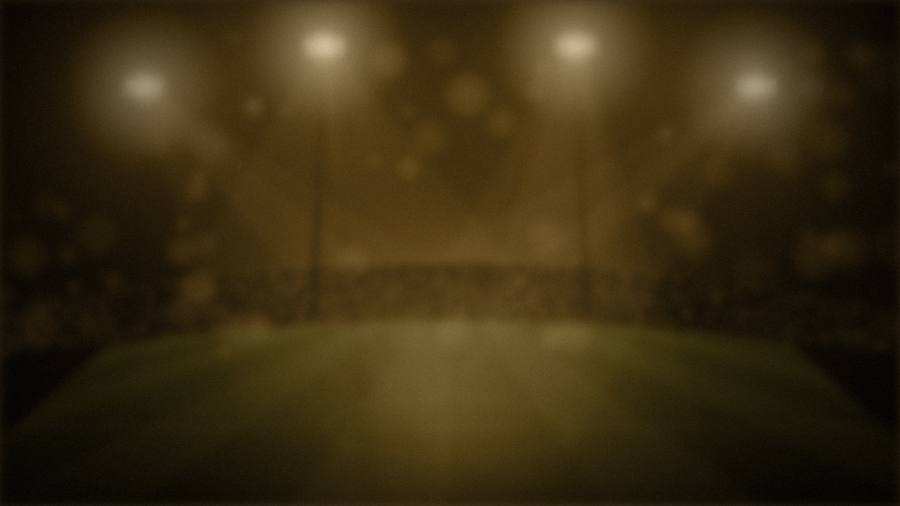
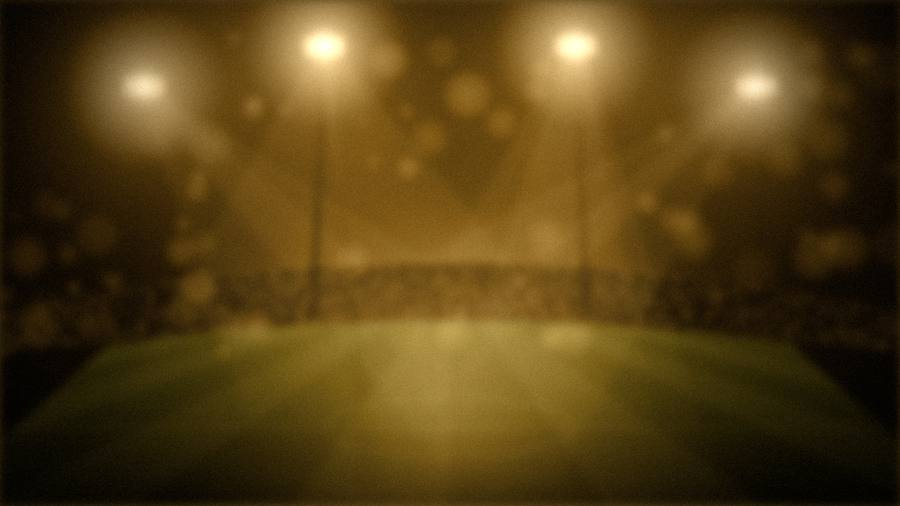
Vcerajsi tip a stadion

diff --git a/landing/index.html b/landing/index.html
@@ -938,30 +938,6 @@
   .rv.in { opacity: 1; transform: none; transition: opacity .9s cubic-bezier(.2,.7,.2,1), transform .9s cubic-bezier(.2,.7,.2,1); transition-delay: var(--rv-d, 0s); }
   @media (prefers-reduced-motion: reduce) { .rv { opacity: 1; transform: none; } }
 
-  /* 2) výsledky priamo v úvode */
-  .proof { display: grid; grid-template-columns: repeat(3, auto); justify-content: start; gap: 0; margin-top: 44px; padding-top: 26px; border-top: 1px solid var(--rule-gold); text-decoration: none; }
-  .proof[hidden] { display: none; }
-  .proof > div { padding-right: 36px; margin-right: 36px; border-right: 1px solid var(--rule); }
-  .proof > div:last-of-type { padding-right: 0; margin-right: 0; border-right: 0; }
-  .proof b { display: block; font: 400 clamp(34px, 3.4vw, 44px)/1 var(--serif); letter-spacing: -0.02em; color: var(--gold-hi); }
-  .proof b.pos { color: var(--win); } .proof b.neg { color: var(--loss); }
-  .proof span { display: block; margin-top: 10px; font-size: 10.5px; font-weight: 600; letter-spacing: .22em; text-transform: uppercase; color: var(--faint); }
-  .proof-note { display: inline-flex; align-items: center; gap: 8px; margin-top: 16px; font-size: 13px; color: var(--muted); text-decoration: none; border-bottom: 1px solid var(--rule-gold); padding-bottom: 2px; }
-  .proof-note:hover { color: var(--gold-hi); border-color: var(--gold); }
-  .proof-note[hidden] { display: none; }
-  /* na počítači menej vzduchu nad nadpisom, aby boli čísla vidieť hneď po otvorení */
-  @media (min-width: 961px) {
-    .hero { padding-top: 76px; }
-    .hero h1 { font-size: clamp(50px, 6.2vw, 84px); }
-    .proof { margin-top: 34px; padding-top: 22px; }
-  }
-  @media (max-width: 640px) {
-    .proof { grid-template-columns: repeat(3, minmax(0, 1fr)); margin-top: 36px; padding-top: 22px; }
-    .proof > div { padding-right: 12px; margin-right: 12px; }
-    .proof b { font-size: 30px; }
-    .proof span { font-size: 9.5px; letter-spacing: .16em; }
-  }
-
   /* 4) podpis zakladateľa namiesto iniciál */
   .sign::before { content: none; }
   .sign span.sig { text-transform: none; margin-top: 0; }
@@ -991,13 +967,13 @@
      Fotka štadióna v úvode a svetlá sekcia „Kto za tým je“ (14. 10. 2026)
      ================================================================ */
   .hero { background:
-      linear-gradient(90deg, rgba(12,11,10,.94) 0%, rgba(12,11,10,.78) 34%, rgba(12,11,10,.28) 68%, rgba(12,11,10,.18) 100%),
-      linear-gradient(180deg, rgba(12,11,10,.35) 0%, rgba(12,11,10,0) 25%, rgba(12,11,10,.15) 72%, #0C0B0A 100%),
+      linear-gradient(90deg, rgba(12,11,10,.82) 0%, rgba(12,11,10,.5) 30%, rgba(12,11,10,0) 60%),
+      linear-gradient(180deg, rgba(12,11,10,0) 0%, rgba(12,11,10,0) 70%, #0C0B0A 100%),
       url("/obrazky/stadion.jpg") center 35% / cover no-repeat #0C0B0A; }
   @media (max-width: 960px) {
     .hero { background:
-      linear-gradient(180deg, rgba(12,11,10,.42) 0%, rgba(12,11,10,.72) 30%, rgba(12,11,10,.9) 55%, #0C0B0A 80%),
-      url("/obrazky/stadion-mobil.jpg") center top / auto 62% no-repeat #0C0B0A; }
+      linear-gradient(180deg, rgba(12,11,10,.1) 0%, rgba(12,11,10,.38) 30%, rgba(12,11,10,.72) 58%, #0C0B0A 85%),
+      url("/obrazky/stadion-mobil.jpg") center top / auto 70% no-repeat #0C0B0A; }
   }
 
   #kto { background: linear-gradient(180deg, #F6F1E6, #EFE7D7); color: #1D1A17; }
@@ -1012,6 +988,42 @@
   #kto .sign .sig { background: linear-gradient(100deg, #7A5A22 0%, #B8995E 45%, #8E6B2E 75%, #6E5020 100%); -webkit-background-clip: text; background-clip: text; color: transparent; }
   #kto .sign .sig-line { background: linear-gradient(90deg, transparent, #9C8250, transparent); }
   #kto :focus-visible { outline-color: #7E6328; }
+
+  /* Včerajší (posledný vyhodnotený) tip pod úvodom */
+  .yday { padding: 0 0 8px; margin-top: -40px; position: relative; z-index: 2; }
+  .yday[hidden] { display: none; }
+  .yday-card { display: grid; grid-template-columns: auto minmax(0,1fr) auto; align-items: center; gap: 36px; padding: 26px 32px; background: linear-gradient(135deg, #1D1A17, #141210); border: 1px solid rgba(217,192,138,.35); outline: 1px solid rgba(217,192,138,.12); outline-offset: -7px; box-shadow: 0 40px 80px -50px rgba(0,0,0,.9); }
+  .yday-date { text-align: center; padding-right: 34px; border-right: 1px solid var(--rule); }
+  .yday-date small { display: block; font-size: 10.5px; font-weight: 600; letter-spacing: .24em; text-transform: uppercase; color: var(--gold); }
+  .yday-date b { display: block; margin-top: 6px; font: 400 40px/1 var(--serif); color: var(--gold-hi); }
+  .yday-date span { display: block; margin-top: 4px; font-size: 11px; letter-spacing: .18em; text-transform: uppercase; color: var(--faint); }
+  .yday-main { min-width: 0; }
+  .yday-main .lg { font-size: 11px; letter-spacing: .2em; text-transform: uppercase; color: var(--faint); }
+  .yday-main .lg:empty { display: none; }
+  .yday-main h3 { margin-top: 6px; font: 400 28px/1.2 var(--serif); color: var(--text); }
+  .yday-main h3 em { font-style: italic; color: var(--gold-hi); margin-left: 10px; font-size: 22px; }
+  .yday-main h3 em:empty { display: none; }
+  .yday-main p { margin-top: 6px; color: var(--muted); font-size: 15.5px; overflow-wrap: anywhere; }
+  .yday-main p b { color: var(--text); font-weight: 600; }
+  .yday-main .meta { display: flex; flex-wrap: wrap; gap: 6px 22px; margin-top: 12px; font-size: 13px; color: var(--faint); }
+  .yday-main .meta b { color: var(--gold-hi); font-weight: 600; margin-left: 4px; }
+  .yday-res { text-align: center; }
+  .yday-badge { display: inline-flex; align-items: center; gap: 10px; padding: 12px 20px; border: 1px solid rgba(127,191,154,.5); background: rgba(127,191,154,.08); color: var(--win); font-size: 12px; font-weight: 700; letter-spacing: .22em; text-transform: uppercase; white-space: nowrap; }
+  .yday-badge.lost { border-color: rgba(192,112,124,.5); background: rgba(192,112,124,.08); color: var(--loss); }
+  .yday-badge.void { border-color: var(--rule-gold); background: transparent; color: var(--muted); }
+  .yday-res a { display: block; margin-top: 12px; font-size: 13px; color: var(--muted); text-decoration: none; }
+  .yday-res a:hover { color: var(--gold-hi); }
+  @media (max-width: 760px) {
+    .yday { margin-top: -24px; }
+    .yday-card { grid-template-columns: minmax(0,1fr); gap: 18px; padding: 22px 20px; text-align: center; }
+    .yday-date { padding: 0 0 16px; border-right: 0; border-bottom: 1px solid var(--rule); }
+    .yday-main .meta { justify-content: center; }
+    .yday-main h3 em { display: block; margin: 4px 0 0; }
+  }
+
+  /* bez radaru v úvode, štadión výraznejší */
+  .hero::before { content: none; }
+  .hero .radar { display: none; }
 </style>
 </head>
 <body>
@@ -1082,7 +1094,6 @@
     </div>
   </header>
   <section class="hero" data-pages="home">
-    <div class="radar" aria-hidden="true"><svg viewBox="0 0 860 860" aria-hidden="true"><circle cx="430" cy="430" r="110" fill="none" stroke="#D9C08A" stroke-opacity="0.22" stroke-width="1"/><circle cx="430" cy="430" r="210" fill="none" stroke="#D9C08A" stroke-opacity="0.2" stroke-width="1"/><circle cx="430" cy="430" r="310" fill="none" stroke="#D9C08A" stroke-opacity="0.17" stroke-width="1"/><circle cx="430" cy="430" r="410" fill="none" stroke="#D9C08A" stroke-opacity="0.22" stroke-width="1"/><path d="M430 20V840M20 430H840" stroke="#D9C08A" stroke-opacity=".10" stroke-width="1"/><path d="M140 140L720 720M720 140L140 720" stroke="#D9C08A" stroke-opacity=".05" stroke-width="1"/><path d="M430.0 20.0L430.0 34.0M465.7 21.6L465.2 27.5M501.2 26.2L500.2 32.1M536.1 34.0L534.6 39.8M570.2 44.7L568.2 50.4M603.3 58.4L600.7 63.9M635.0 74.9L628.0 87.1M665.2 94.1L661.7 99.1M693.5 115.9L689.7 120.5M719.9 140.1L715.7 144.3M744.1 166.5L739.5 170.3M765.9 194.8L760.9 198.3M785.1 225.0L772.9 232.0M801.6 256.7L796.1 259.3M815.3 289.8L809.6 291.8M826.0 323.9L820.2 325.4M833.8 358.8L827.9 359.8M838.4 394.3L832.5 394.8M840.0 430.0L826.0 430.0M838.4 465.7L832.5 465.2M833.8 501.2L827.9 500.2M826.0 536.1L820.2 534.6M815.3 570.2L809.6 568.2M801.6 603.3L796.1 600.7M785.1 635.0L772.9 628.0M765.9 665.2L760.9 661.7M744.1 693.5L739.5 689.7M719.9 719.9L715.7 715.7M693.5 744.1L689.7 739.5M665.2 765.9L661.7 760.9M635.0 785.1L628.0 772.9M603.3 801.6L600.7 796.1M570.2 815.3L568.2 809.6M536.1 826.0L534.6 820.2M501.2 833.8L500.2 827.9M465.7 838.4L465.2 832.5M430.0 840.0L430.0 826.0M394.3 838.4L394.8 832.5M358.8 833.8L359.8 827.9M323.9 826.0L325.4 820.2M289.8 815.3L291.8 809.6M256.7 801.6L259.3 796.1M225.0 785.1L232.0 772.9M194.8 765.9L198.3 760.9M166.5 744.1L170.3 739.5M140.1 719.9L144.3 715.7M115.9 693.5L120.5 689.7M94.1 665.2L99.1 661.7M74.9 635.0L87.1 628.0M58.4 603.3L63.9 600.7M44.7 570.2L50.4 568.2M34.0 536.1L39.8 534.6M26.2 501.2L32.1 500.2M21.6 465.7L27.5 465.2M20.0 430.0L34.0 430.0M21.6 394.3L27.5 394.8M26.2 358.8L32.1 359.8M34.0 323.9L39.8 325.4M44.7 289.8L50.4 291.8M58.4 256.7L63.9 259.3M74.9 225.0L87.1 232.0M94.1 194.8L99.1 198.3M115.9 166.5L120.5 170.3M140.1 140.1L144.3 144.3M166.5 115.9L170.3 120.5M194.8 94.1L198.3 99.1M225.0 74.9L232.0 87.1M256.7 58.4L259.3 63.9M289.8 44.7L291.8 50.4M323.9 34.0L325.4 39.8M358.8 26.2L359.8 32.1M394.3 21.6L394.8 27.5" stroke="#D9C08A" stroke-opacity=".28" stroke-width="1"/></svg><div class="sweep"></div><i class="blip" style="left:78.52%;top:24.32%;animation-delay:1.20s"></i><i class="blip" style="left:69.41%;top:57.84%;animation-delay:2.80s"></i><i class="blip" style="left:61.14%;top:91.56%;animation-delay:4.12s"></i><i class="blip" style="left:26.18%;top:68.61%;animation-delay:5.80s"></i><i class="blip" style="left:10.73%;top:27.33%;animation-delay:7.50s"></i><i class="blip" style="left:55.97%;top:33.61%;animation-delay:0.50s"></i></div>
     <div class="wrap">
       <div>
         <div class="eyebrow">Futbalové tipy podložené štatistickým modelom</div>
@@ -1092,12 +1103,6 @@
           <a class="btn" href="#clenstvo">Zapísať sa do poradovníka</a>
           <a class="btn btn-ghost" href="#vysledky">Pozrieť výsledky</a>
         </div>
-        <div class="proof" id="heroProof" hidden>
-          <div><b class="num" id="hpCount">–</b><span id="hpCountLbl">vyhodnotených tipov</span></div>
-          <div><b class="num" id="hpRate">–</b><span>vyšlo</span></div>
-          <div id="hpRoiBox"><b class="num" id="hpRoi">–</b><span>ROI</span></div>
-        </div>
-        <a class="proof-note" id="heroProofNote" href="#vysledky" hidden>Výhry aj prehry, každý tip od začiatku <span aria-hidden="true">→</span></a>
       </div>
 
       <figure class="duel" id="duel" aria-label="Ilustrácia: model porovnáva svoju pravdepodobnosť s kurzom stávkovej kancelárie">
@@ -1119,6 +1124,20 @@
     </div>
   </section>
 
+  <section class="yday" id="yday" data-pages="home" aria-label="Posledný vyhodnotený tip" hidden>
+    <div class="wrap">
+      <div class="yday-card">
+        <div class="yday-date"><small id="ydLbl">Včerajší tip</small><b class="num" id="ydDay"></b><span id="ydMonth"></span></div>
+        <div class="yday-main">
+          <div class="lg" id="ydLeague"></div>
+          <h3><span id="ydMatch"></span><em class="num" id="ydScore"></em></h3>
+          <p id="ydBet"></p>
+          <div class="meta" id="ydMeta"></div>
+        </div>
+        <div class="yday-res"><span class="yday-badge" id="ydBadge"></span><a href="#vysledky">Všetky výsledky →</a></div>
+      </div>
+    </div>
+  </section>
   <section class="sec" id="ako" data-pages="home">
     <div class="wrap split how">
       <div>
@@ -1748,18 +1767,34 @@
       }
       recentAll = d.recent || [];
       drawList(); drawChart(d.timeline); drawSlips(d.slips || []);
+      // Včerajší (posledný vyhodnotený) tip pod úvodom – výhra aj prehra
+      const L = d.latest, yd = document.getElementById("yday");
+      if (yd && L && L.day && (L.status === "won" || L.status === "lost" || L.status === "void")) {
+        const [ly, lm, ldd] = String(L.day).split("-").map(Number);
+        const pad = (x) => String(x).padStart(2, "0");
+        const now = new Date(), yest = new Date(now.getTime() - 864e5);
+        const key = (t) => `${t.getFullYear()}-${pad(t.getMonth() + 1)}-${pad(t.getDate())}`;
+        $("ydLbl").textContent = L.day === key(yest) ? "Včerajší tip" : L.day === key(now) ? "Dnešný tip" : "Posledný tip";
+        $("ydDay").textContent = ldd + ".";
+        $("ydMonth").textContent = MONTHS[lm - 1] || "";
+        $("ydLeague").textContent = [L.league, L.strong ? "★ Silný tip dňa" : ""].filter(Boolean).join(" · ");
+        $("ydMatch").textContent = L.match || "";
+        $("ydScore").textContent = L.score || "";
+        const bi = String(L.bet || "").indexOf(": ");
+        $("ydBet").innerHTML = bi > 0 ? `${esc(L.bet.slice(0, bi))}: <b>${esc(L.bet.slice(bi + 2))}</b>` : `<b>${esc(L.bet || "")}</b>`;
+        const meta = [];
+        if (L.odds) meta.push(`<span>Kurz<b class="num">${String(Number(L.odds).toFixed(2)).replace(".", ",")}</b></span>`);
+        if (L.probability) meta.push(`<span>Dôvera<b class="num">${L.probability}&nbsp;%</b></span>`);
+        if (L.dayTotal > 1) meta.push(`<span>V ten deň<b class="num">${L.dayWon} z ${L.dayTotal}</b></span>`);
+        $("ydMeta").innerHTML = meta.join("");
+        const b = $("ydBadge");
+        b.className = "yday-badge" + (L.status === "lost" ? " lost" : L.status === "void" ? " void" : "");
+        b.textContent = L.status === "won" ? "✓ Vyšlo" : L.status === "lost" ? "✗ Nevyšlo" : "↺ Vrátené";
+        yd.hidden = false;
+      }
       if (!d.totalResolved) { $("month").textContent = "Čísla sa zobrazia po prvých vyhodnotených tipoch."; return; }
       const n = d.totalResolved;
       drawLast10();
-      // výsledky aj hore v úvode (rozbehnú sa hneď po načítaní)
-      if ($("heroProof")) {
-        $("heroProof").hidden = false; $("heroProofNote").hidden = false;
-        $("hpCountLbl").textContent = tipsWord(n);
-        countUp($("hpCount"), n, 0, (v) => String(v));
-        countUp($("hpRate"), d.winRate, 0, (v) => `${v} %`);
-        if (d.withOdds > 0) { $("hpRoi").className = "num " + cls(d.roi); countUp($("hpRoi"), d.roi, 0, (v) => `${signed(v, 0)} %`); }
-        else $("hpRoiBox").remove();
-      }
       $("fCountLbl").textContent = tipsWord(n);
       if (d.withOdds > 0) {
         $("fProfit").className = "num " + cls(d.profit); $("fRoi").className = "num " + cls(d.roi);
